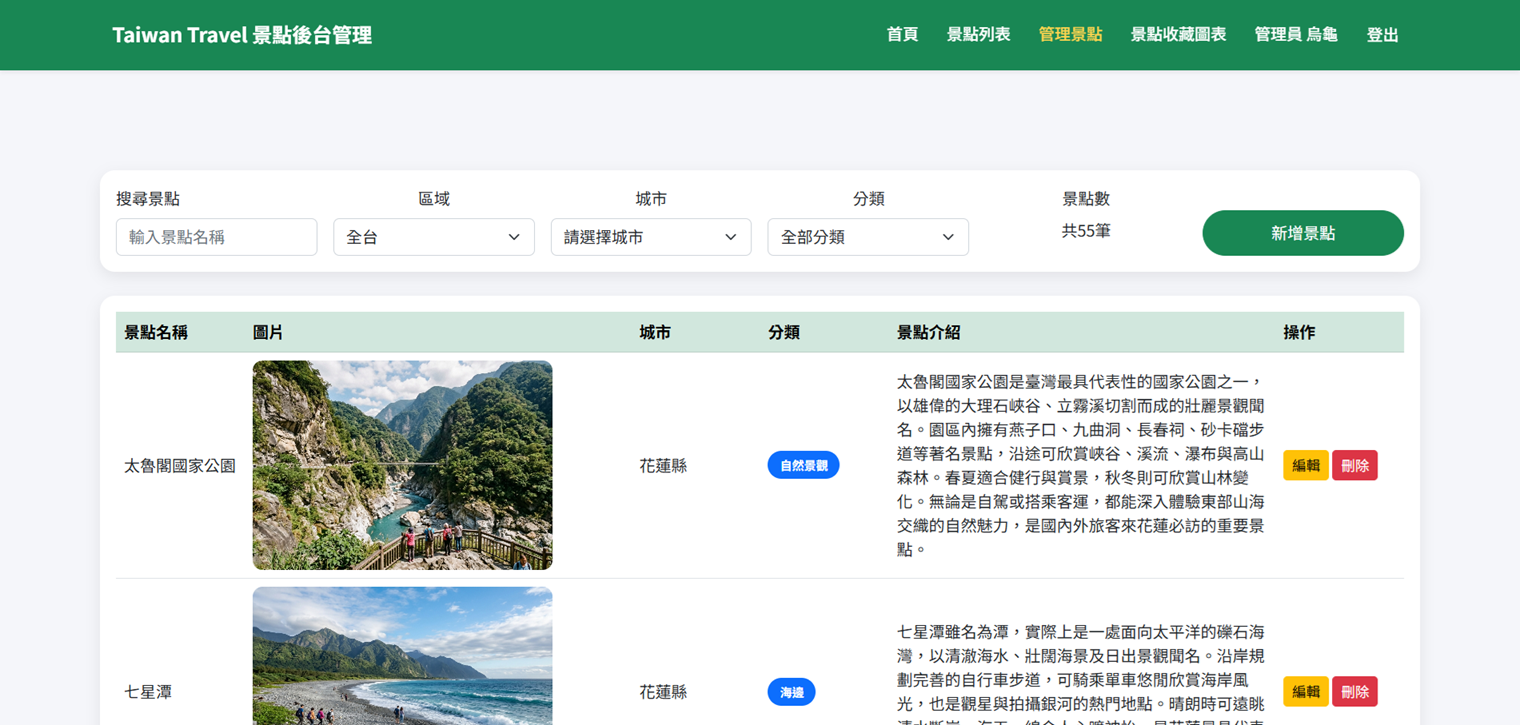
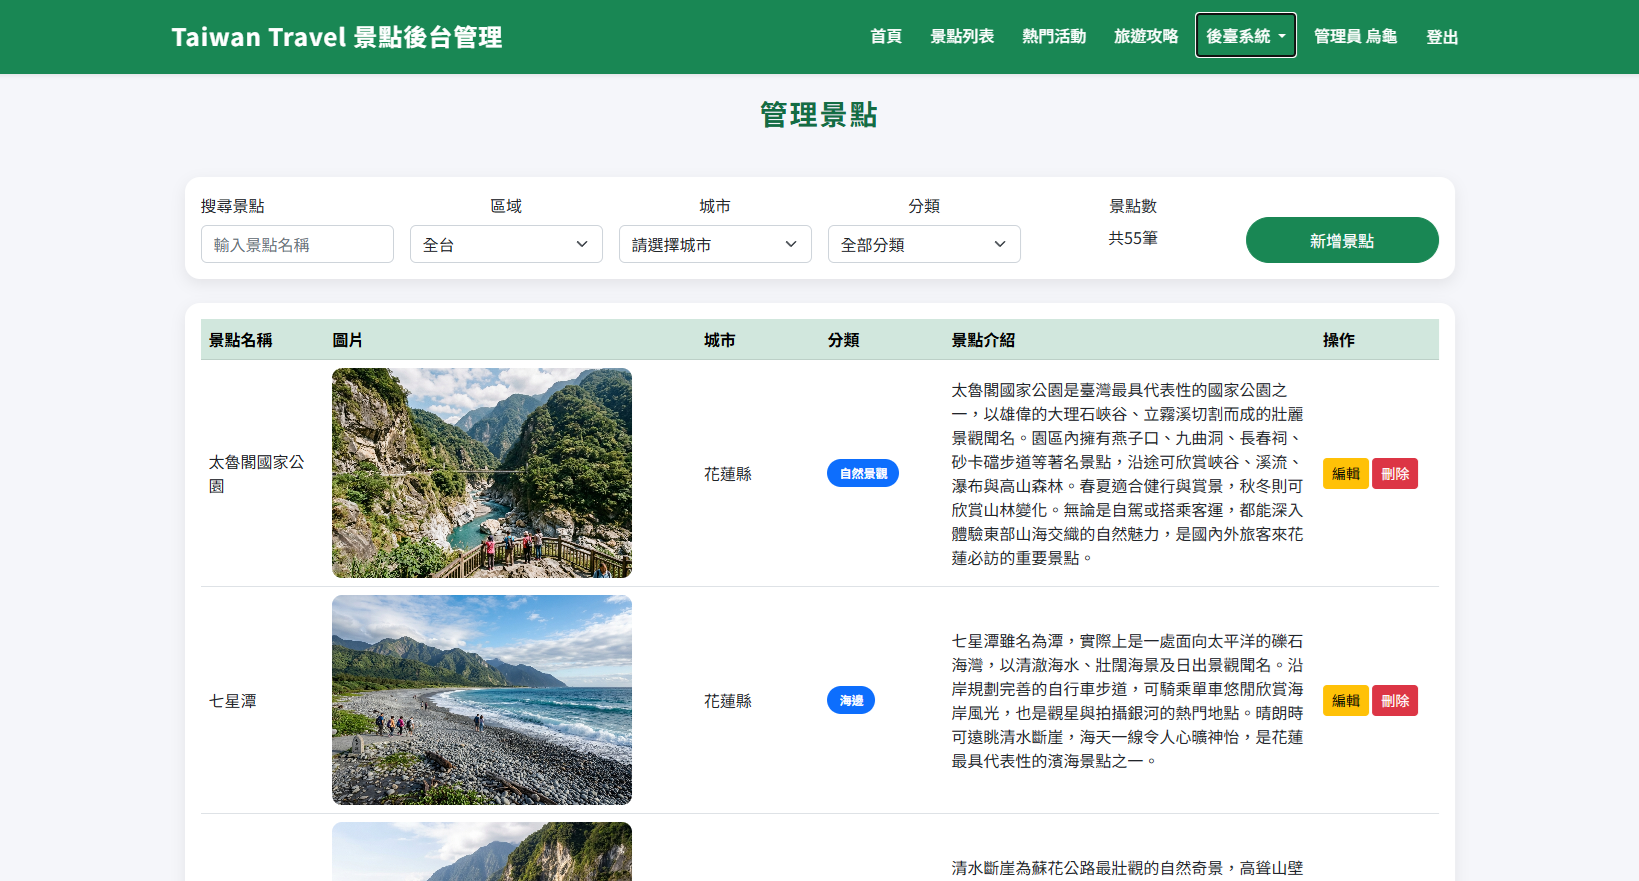
update

diff --git a/resources/views/admin/adminhome.blade.php b/resources/views/admin/adminhome.blade.php
@@ -250,7 +250,7 @@
 </style>
 @endpush
 @section("content")
-<div class="content">
+<div class="container content">
 
     <div class="card mb-4">
         <div class="card-body">

diff --git a/README.md b/README.md
@@ -216,7 +216,7 @@
 1. Githut檔下載
 
 ```cmd
-git clone https://github.com/d83080918/icap.git
+git clone https://github.com/d83080918/Travel_Taiwan
 ```
 
 2. 安裝套件
@@ -256,4 +256,4 @@ http://127.0.0.1:8000
 | --- | --- |
 | 開發者 | 黃登群 |
 | 專案名稱 | AI Travel Guide Website |
-| GitHub Repository | https://github.com/d83080918/icap |
+| GitHub Repository | https://github.com/d83080918/Travel_Taiwan |
